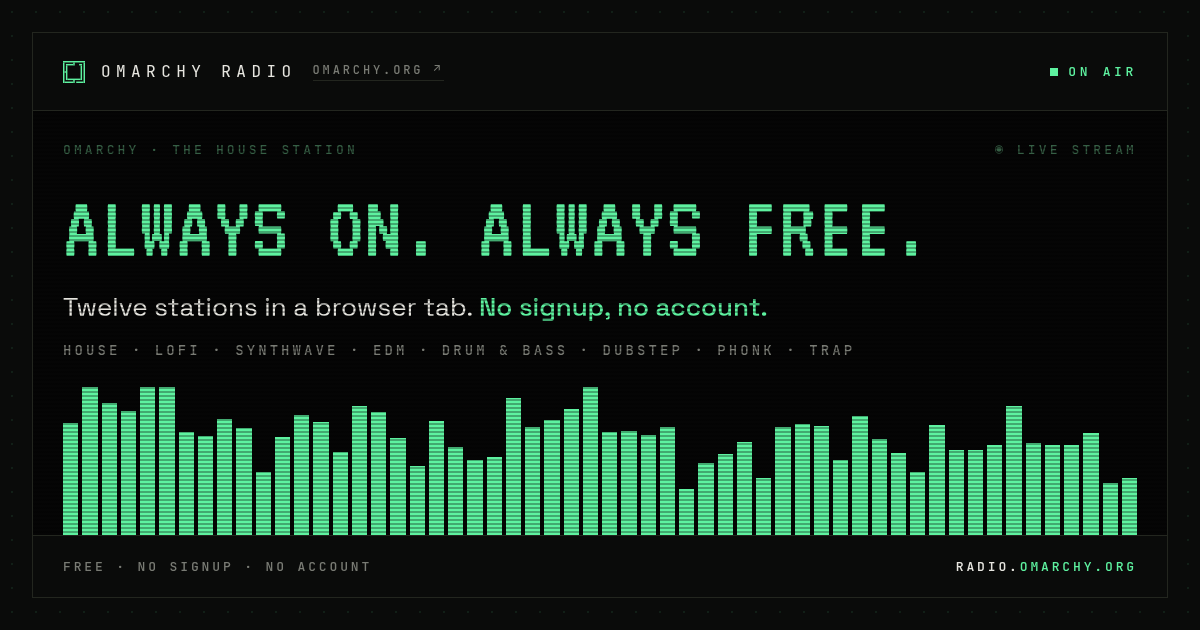
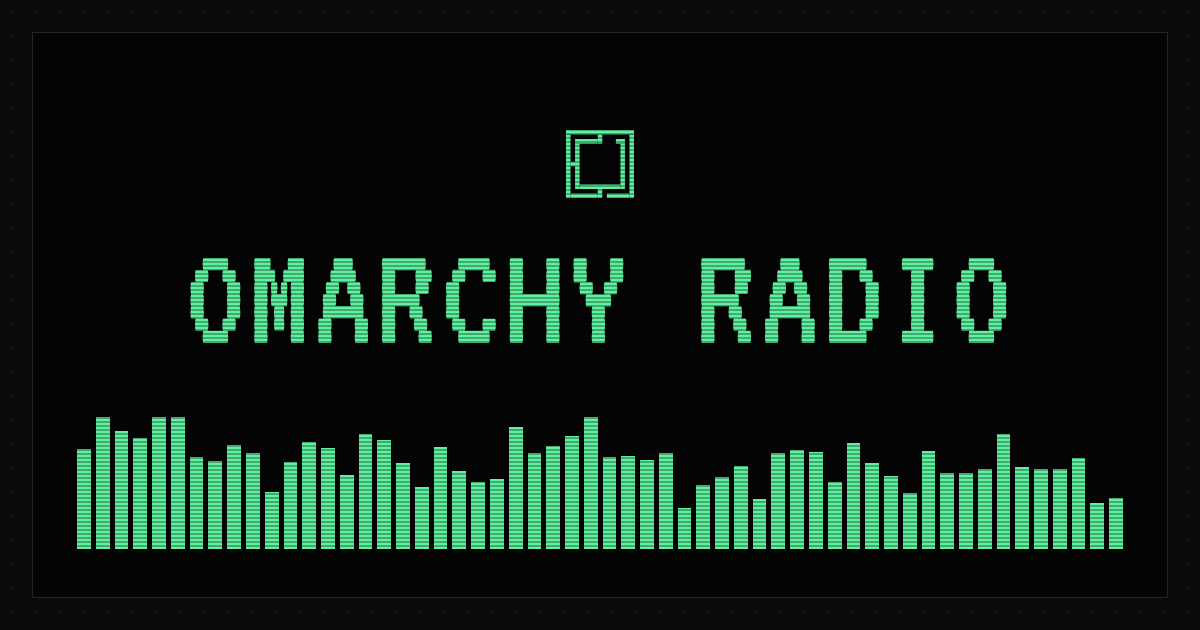
Strip the social cards back to the name and the waves
The card had grown a tagline, a genre list and a run of no-signup
promises. At the size a timeline actually renders it, roughly 500px
wide, that reads as noise around the only two things worth showing:
whose radio this is and that it is playing. It is now the mark, the
name in VT323 and the spectrum, on the LCD black with the scanline
overlay the deck uses, so the card still looks like the product.

Three ratios join the 1.91:1 card, re-composed rather than letterboxed:
the name breaks to two lines and grows to fill the taller shapes.

  opengraph.png         1200x630   og:image, twitter:image
  opengraph-16x9.png    1200x675   schema.org image
  opengraph-4x3.png     1200x900   schema.org image
  opengraph-square.png  1200x1200  schema.org image, square crops

The variants are wired into the structured data, where Google documents
wanting 16x9, 4x3 and 1x1. og:image stays a single URL: listing several
leaves each scraper to guess which is the hero, and the wide card is
what every social platform wants. og:image:secure_url is added for the
older scrapers that look for it.

Checked against the published limits for X, Facebook, LinkedIn,
WhatsApp, Discord, Telegram, Bluesky, Slack, Pinterest and iMessage.
The tightest is WhatsApp, which drops the preview over 300KB; the card
is 33KB. No alpha channel, so nothing composites against white.

diff --git a/index.html b/index.html
@@ -17,6 +17,7 @@
 <meta property="og:title" content="Omarchy Radio">
 <meta property="og:description" content="Omarchy Radio">
 <meta property="og:image" content="https://radio.omarchy.org/assets/images/opengraph.png">
+<meta property="og:image:secure_url" content="https://radio.omarchy.org/assets/images/opengraph.png">
 <meta property="og:image:width" content="1200">
 <meta property="og:image:height" content="630">
 <meta property="og:image:type" content="image/png">
@@ -87,6 +88,12 @@
       "name": "Omarchy Radio",
       "isPartOf": { "@id": "https://radio.omarchy.org/#website" },
       "about": { "@id": "https://radio.omarchy.org/#service" },
+      "image": [
+        "https://radio.omarchy.org/assets/images/opengraph.png",
+        "https://radio.omarchy.org/assets/images/opengraph-16x9.png",
+        "https://radio.omarchy.org/assets/images/opengraph-4x3.png",
+        "https://radio.omarchy.org/assets/images/opengraph-square.png"
+      ],
       "primaryImageOfPage": {
         "@type": "ImageObject",
         "url": "https://radio.omarchy.org/assets/images/opengraph.png",
@@ -103,6 +110,12 @@
       "url": "https://radio.omarchy.org/",
       "description": "Omarchy Radio",
       "broadcastDisplayName": "Omarchy Radio",
+      "image": [
+        "https://radio.omarchy.org/assets/images/opengraph.png",
+        "https://radio.omarchy.org/assets/images/opengraph-16x9.png",
+        "https://radio.omarchy.org/assets/images/opengraph-4x3.png",
+        "https://radio.omarchy.org/assets/images/opengraph-square.png"
+      ],
       "inLanguage": "en",
       "areaServed": "Worldwide",
       "broadcastAffiliateOf": { "@id": "https://omarchy.org/#organization" },
